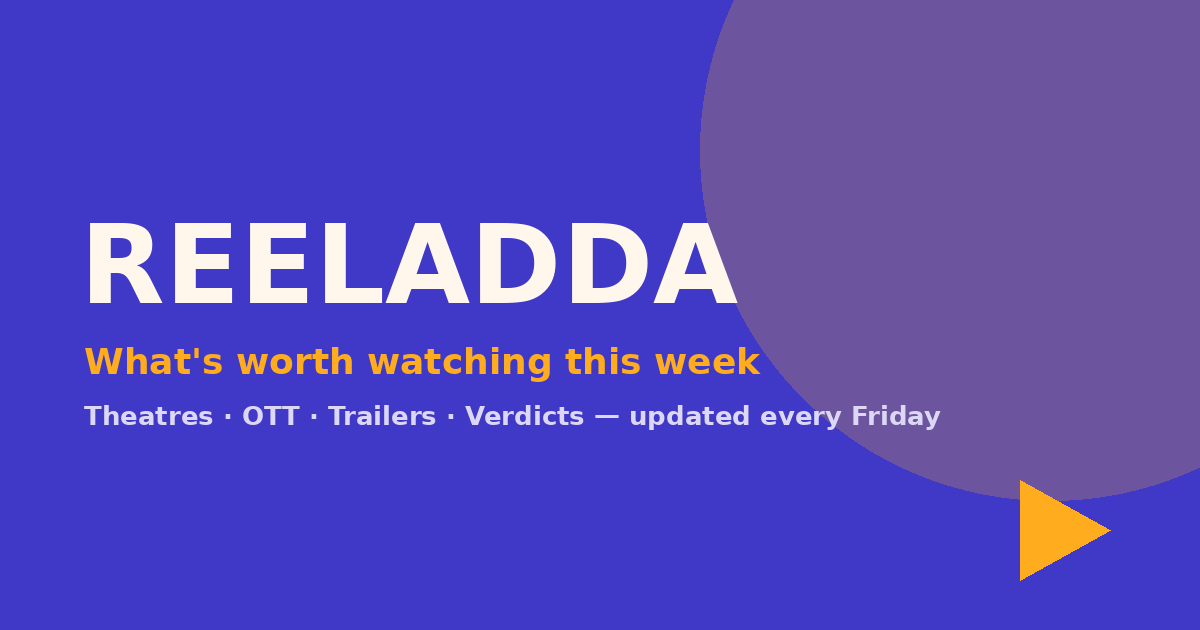
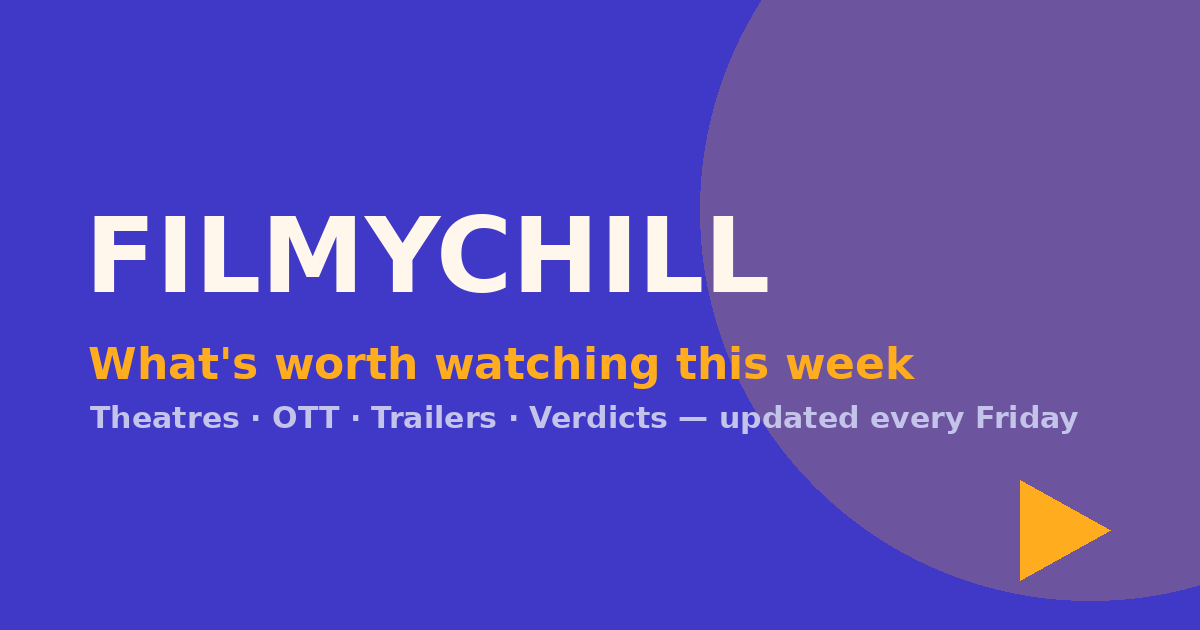
Add files via upload

Changed region(s): [[0.0617, 0.3317, 1.0, 0.9651], [0.5858, 0.0, 0.6475, 0.2111]]

diff --git a/index.html b/index.html
@@ -4,21 +4,21 @@
   <meta name="google-site-verification" content="4ku0At0NWvCsep-7Vor9IVMcAxscMMt6CPQDrC2bCW4" />
 <meta charset="UTF-8">
 <meta name="viewport" content="width=device-width, initial-scale=1.0">
-<title>ReelAdda — Latest Movie & OTT Releases with Reviews, Updated Weekly</title>
-<meta name="description" content="ReelAdda scans the latest theatre releases and new OTT releases on Netflix, Prime Video, JioHotstar and more — with trailers, ratings and verdicts, auto-updated every week.">
+<title>FilmyChill — Latest Movie & OTT Releases with Reviews, Updated Weekly</title>
+<meta name="description" content="FilmyChill scans the latest theatre releases and new OTT releases on Netflix, Prime Video, JioHotstar and more — with trailers, ratings and verdicts, auto-updated every week.">
 <meta name="keywords" content="latest movie releases, new OTT releases, what to watch this week, new on Netflix India, new on Prime Video, movie reviews, upcoming movies India">
-<link rel="canonical" href="https://reeladda.github.io/">
-<meta property="og:title" content="ReelAdda — What's worth watching this week">
+<link rel="canonical" href="https://filmychill.com/">
+<meta property="og:title" content="FilmyChill — What's worth watching this week">
 <meta property="og:description" content="Top theatre releases + Top OTT picks with trailers, ratings and verdicts. Auto-updated weekly.">
-<meta property="og:site_name" content="ReelAdda">
+<meta property="og:site_name" content="FilmyChill">
 <meta property="og:type" content="website">
-<meta property="og:image" content="https://reeladda.github.io/og-image.png">
+<meta property="og:image" content="https://filmychill.com/og-image.png">
 <meta name="theme-color" content="#4038C7">
 <link rel="manifest" href="manifest.json">
 <link rel="icon" href="icon-192.png">
 <link rel="apple-touch-icon" href="icon-192.png">
 <script type="application/ld+json">
-{"@context":"https://schema.org","@type":"WebSite","name":"ReelAdda","url":"https://reeladda.github.io/"}
+{"@context":"https://schema.org","@type":"WebSite","name":"FilmyChill","url":"https://filmychill.com/"}
 </script>
 <link rel="preconnect" href="https://fonts.googleapis.com">
 <link href="https://fonts.googleapis.com/css2?family=Anton&family=Inter:wght@400;500;600;700;800&display=swap" rel="stylesheet">
@@ -201,7 +201,7 @@
 <body>
 
 <header>
-  <div class="logo">REEL<span>ADDA</span></div>
+  <div class="logo">FILMY<span>CHILL</span></div>
   <div class="tagline">What's worth watching this week</div><br>
   <div class="updated"><div class="dot"></div><span id="lastScan">Loading fresh picks…</span></div>
 </header>
@@ -284,7 +284,7 @@
 </div>
 
 <footer>
-  <b>ReelAdda</b> — fresh picks every day.<br>
+  <b>FilmyChill</b> — fresh picks every day.<br>
   Film data and ratings from <a href="https://www.themoviedb.org" rel="noopener" target="_blank">TMDB</a>. This product uses the TMDB API but is not endorsed or certified by TMDB.
 </footer>
 
@@ -297,8 +297,8 @@ let sortMode = 'default';
 let myListOnly = false;
 
 // ---- Watchlist (stored on this device) ----
-function loadWL() { try { return JSON.parse(localStorage.getItem('reeladda-wl') || '[]'); } catch { return []; } }
-function saveWL(wl) { try { localStorage.setItem('reeladda-wl', JSON.stringify(wl)); } catch {} updateWLCount(); }
+function loadWL() { try { const v = localStorage.getItem('filmychill-wl') || localStorage.getItem('reeladda-wl') || '[]'; return JSON.parse(v); } catch { return []; } }
+function saveWL(wl) { try { localStorage.setItem('filmychill-wl', JSON.stringify(wl)); } catch {} updateWLCount(); }
 function wlKey(item) { return item.tmdbId || item.title; }
 function isSaved(item) { return loadWL().some(x => wlKey(x) === wlKey(item)); }
 function toggleSave(listKey, i) {
@@ -492,7 +492,7 @@ document.getElementById('moodOverlay').addEventListener('click', e => { if (e.ta
 function shareWeek() {
   const top = DATA.theatres.slice(0, 3).map((x, i) => `${i + 1}. ${x.title} (${x.platform})`).join('\n');
   const ott = DATA.ott.slice(0, 3).map((x, i) => `${i + 1}. ${x.title} (${x.platform})`).join('\n');
-  const text = `🎬 *This week on ReelAdda*\n\n*In Theatres:*\n${top}\n\n*Streaming:*\n${ott}\n\nFull list with trailers & verdicts:\n${location.href}`;
+  const text = `🎬 *This week on FilmyChill*\n\n*In Theatres:*\n${top}\n\n*Streaming:*\n${ott}\n\nFull list with trailers & verdicts:\n${location.href}`;
   window.open('https://wa.me/?text=' + encodeURIComponent(text), '_blank');
 }
 